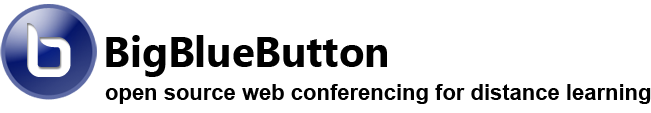
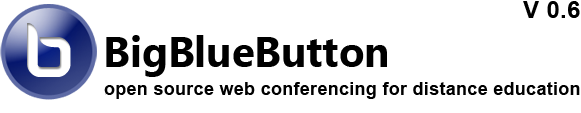
updated landing page

Changed region(s): [[0.0, 0.0265, 1.0, 0.9292], [0.8985, 0.0, 1.0, 0.1593]]

diff --git a/bigbluebutton-config/web/css/style.css b/bigbluebutton-config/web/css/style.css
@@ -3,7 +3,7 @@ body{
 	margin-top:25px;
 	margin-bottom:40px;
 	height:100%;
-	background-color: #d1dce2;
+	background-color: #f8f8f8;
 	}
 	
 img{
@@ -16,16 +16,24 @@ img{
 	margin-right:auto;	
 	width:800px;
 	background-color:#fff;	
-	border:5px solid #e3ecf1;
+	border:1px solid #CCC;
 	padding:15px;
 	height:1055px;
 
 }
 
+#header{
+	width:800px;
+	height:150px;
+	background-color:#d1dce2;
+	padding: 0;
+	
+}
+
 #logo{
 	width:775px;
 	height:113px;
-	float:left;
+	float:left;	
 	margin-left:15px;
 	margin-top:15px;
 /*	border:#C66 solid 1px; */
